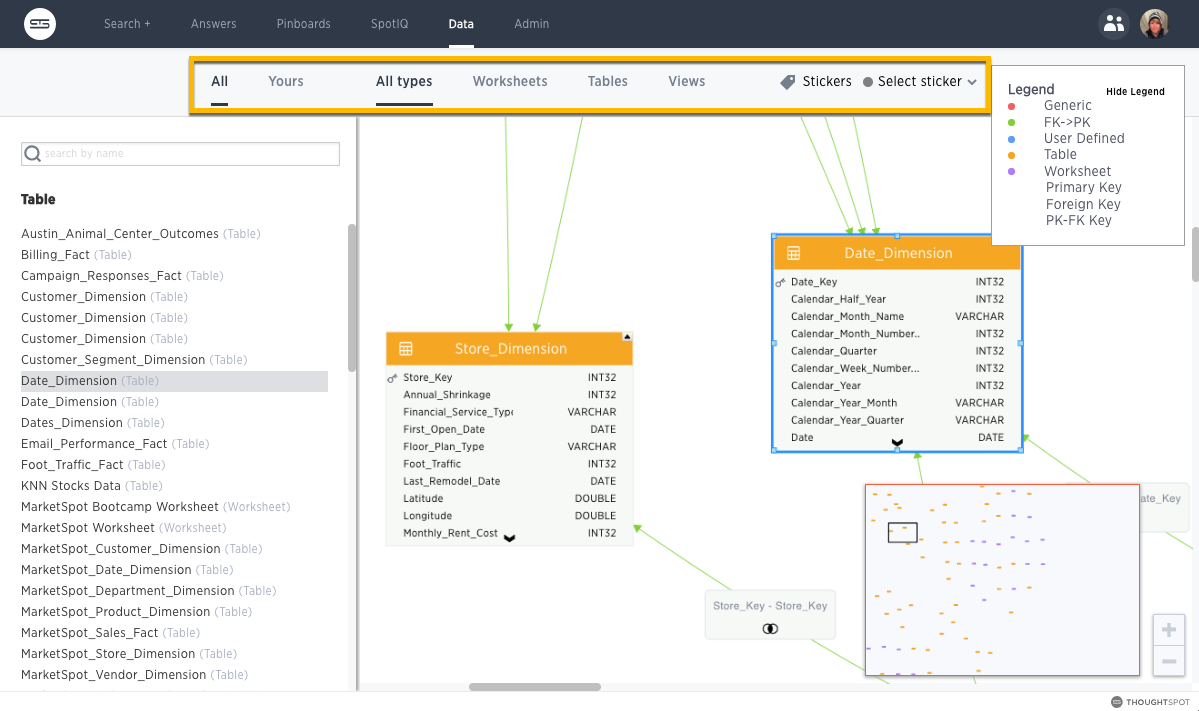
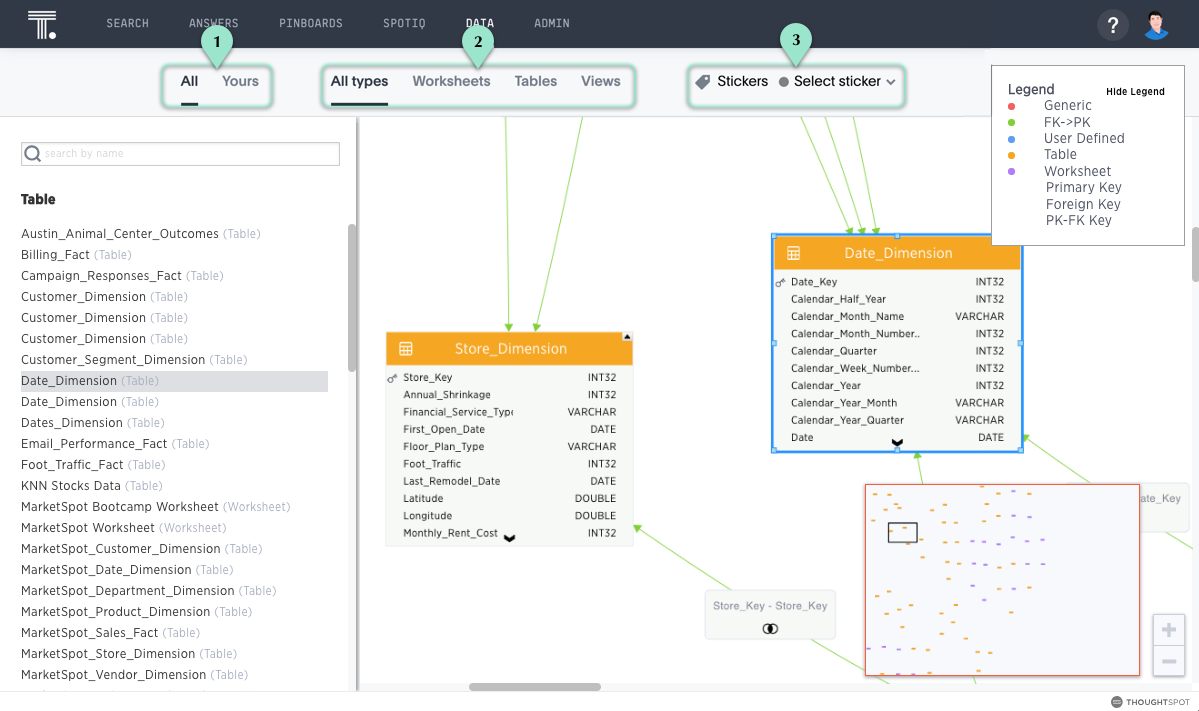
shema visibility in worksheets

diff --git a/_admin/loading/schema-viewer.md b/_admin/loading/schema-viewer.md
@@ -1,47 +1,92 @@
 ---
 title: [How to view a data schema]
 keywords: schema viewer, relationships, keys, worksheet
-last_updated: 12/13/2018
+last_updated: 07/27/2019
 tags: [Modeling]
 toc: true
 summary: "Use the schema viewer to see tables and worksheets and their relationships. "
 sidebar: mydoc_sidebar
 permalink: /:collection/:path.html
 ---
-ThoughtSpot offers a schema viewer that lets you see your database schema in the
-web browser. The Schema Viewer is interactive, so you can configure it to show
-just what you want to see.
+ThoughtSpot has a ##Schema Viewer** though which you can examine the database schema. It is interactive and configurable, so you can see the level of detail that is relevant to your work.
 
-You need **Admin** privileges to use the **Schema Viewer**.
+You must have **Admin** privileges to use the **Schema Viewer**.
 
-## Bringing up the Schema Viewer
+## Accessing the Schema Viewer for all objects
 
-You can bring up the Schema Viewer from the **Data** screen. Click the ellipses icon
+1. Click the **Data** tab in the top menu.  
+
+   ![]({{ site.baseurl }}/images/click-data.png "Click Data")
+
+2. Click the ellipses icon,
  ![more options menu icon]({{ site.baseurl }}/images/icon-ellipses.png){: .inline},
 and select **View Schema**.
 
  ![]({{ site.baseurl }}/images/access_schema_viewer.png "Access the Schema
  Viewer")
 
-When viewing the schema, you can filter the tables shown similarly to how you
-filter data sources. The list of tables, worksheets, and imported data on the
-left includes only those objects you want to see. Clicking on one of the objects
-brings it to the middle of the viewer and highlights it. You can drag the
-objects around in the viewer.
+3. When the schema appears, you can see that you can control the visible part of the schema.
 
  ![]({{ site.baseurl }}/images/schema_viewer.png "Schema Viewer filters")
 
-## Why to use the Schema Viewer
 
-You can use the Schema Viewer to find out information like:
+   | Legend | Action |
+   | --- | --- |
+   | 1. | See either _All_ \(Default\), or _Yours_. |
+   | 2. | See either _All types_ \(Default\), _Worksheets_, _Tables_, or _Views_. |
+   | 3. | Select artifacts tagged with stickers. |
 
--   What is the relationship between two tables? What tables make up this
--   worksheet, and how are they joined?
 
-The schema viewer shows joins between tables, join directionality, and join type
+4. The list of tables, worksheets, and imported data on the left changes as you select the various filters. The schema view focus changes in tandem.
+
+5. To center the view panel on a specific table, worksheet, or view, click that object.
+
+   You can also drag the objects around in the viewer to position them better.
+
+## Accessing Schema Viewer for a single worksheet, table, or view
+
+You can now see the schema for each object for tables, worksheets, or views.
+
+1. Click the **Data** tab in the top menu.  
+
+   ![]({{ site.baseurl }}/images/click-data.png "Click Data")
+
+2. Select from the list of the possible objects:
+
+   ![]({{ site.baseurl }}/images/select-tables.png "Top selection menu in Data")
+
+
+   | Legend | Action |
+   | --- | --- |
+   | 1. | See either _All_ \(Default\), or _Yours_. |
+   | 2. | See either _All types_ \(Default\), _Worksheets_, _Tables_, or _Views_. |
+   | 3. | Select artifacts tagged with stickers. |
+
+3. From the list of objects, select one. Here, we selected the worksheet _West Regional Sales_.
+
+4. At the top of the worksheet, click the **Schema** tab.
+
+   ![]({{ site.baseurl }}/images/select-worksheet-schema.png "Click worksheet Schema")
+
+5. The join information and the schema for the worksheet appear.  
+
+   ![]({{ site.baseurl }}/images/worksheet-join-schema.png "View join and schema")
+
+
+
+## Why use the Schema Viewer
+
+You can use the Schema Viewer to discover the following information:
+
+-   What is the relationship between two tables?
+-   What tables make up this worksheet, and how are they joined?
+
+The schema viewer shows joins between tables, join directionality, and join type.
+
+<!-- ()
 (whether they are Foreign Key to Primary Key, relationship joins, or joins
 defined by users through the web interface). Use the **Table** list to find a
-specific table or worksheet.
+specific table or worksheet.-->
 
 ## How the Schema Viewer shows joins
 
@@ -70,18 +115,15 @@ The worksheet view shows the following information:
 
 -   All tables in the worksheet, and the relationships between these tables.
 -   Source columns for all columns of a worksheet.
-
 -   Keys and definitions for each relationship, as well as join paths and types.
-
 -   Columns that are derived from formulas.
-
--   Correct join paths for newly created chasm trap worksheets. Existing chasm
--   trap worksheets created prior to ThoughtSpot version 4.4 will not show the correct join paths.
+-   Correct join paths for newly created chasm trap worksheets. Chasm trap worksheets created prior to ThoughtSpot version 4.4 do not show the correct join paths.
 
  ![]({{ site.baseurl }}/images/worksheet_viewer.png "Worksheet view example")
 
 ## Related Information
 
 -   [Worksheet joins]({{ site.baseurl }}/admin/worksheets/add-joins.html)
+-   [Modify joins within a worksheet]({{ site.baseurl }}/admin/worksheets/mod-ws-internal-joins.html)
 -   [Change the schema using TQL]({{ site.baseurl }}/admin/loading/change-schema.html)
 -   [Constraints]({{ site.baseurl }}/admin/loading/constraints.html)

diff --git a/_admin/worksheets/mod-ws-internal-joins.md b/_admin/worksheets/mod-ws-internal-joins.md
@@ -3,38 +3,71 @@ title: [Modify joins within a worksheet]
 keywords: worksheet view join relationship
 last_updated: 11/2/2018
 summary: "Learn how to change the join type between the tables within a worksheet"
-toc: false
+toc: true
 sidebar: mydoc_sidebar
 permalink: /:collection/:path.html
 ---
 
 When you create a worksheet, you select a [join rule]({{ site.baseurl }}/admin/worksheets/progressive-joins.html). The join rule works together with the joins defined within the worksheet determine how the tables that make up the worksheet are joined, and how those joins behave when searching on the worksheet.
 
-Beginning in ThoughtSpot version 5.0, you aren't limited to just one join rule for the entire worksheet. You can define different types of joins for each join between tables in a worksheet. Be default, each of these individual table joins uses an inner join. But you can override this at the individual join level.
+Starting with ThoughtSpot version 5.0, you are not limited to just one join rule for the entire worksheet. You can define different types of joins for each join between tables in a worksheet. Be default, each of these individual table joins uses an inner join. But you can override this at the individual join level.
 
 You must have either the **Can administer ThoughtSpot** privilege or the **Can manage data** privilege to modify joins within worksheets.
 
-To modify the join types within a worksheet:
+## Modify a join
 
-1. To find your worksheet, click **Data** in the top menu, and choose **Worksheets**.
+To modify the join types within a worksheet, follow these steps:
 
-2. Click the name of your worksheet.
+1. Click the **Data** tab in the top menu.  
 
-3. Click **Schema**. You will see the list showing existing joins within the worksheet. The joins shown here include all the joins between the underlying tables, whether [created using TQL]({{ site.baseurl }}/admin/loading/constraints.html) or [in the browser]({{ site.baseurl }}/admin/data-modeling/create-new-relationship.html).
+   ![]({{ site.baseurl }}/images/click-data.png "Click Data")
 
-   If you don't see the joins within the worksheet, make sure **Joins within worksheets** is chosen.
+2. Select **Table**, and then select **Worksheets**.
 
-   ![]({{ site.baseurl }}/images/worksheet-join-chooser.png "Joins within a worksheet")
+3. Click the name of the worksheet. Here, we selected the worksheet _West Regional Sales_.
 
-4. Find the join you want to modify and click the **Edit** icon. Note that the fact table is always the left table, and it is shown on the left side.
+4. At the top of the worksheet, click the **Schema** tab.
 
-   ![]({{ site.baseurl }}/images/ws-join-edit-icon.png "Edit worksheet join")
+   ![]({{ site.baseurl }}/images/select-worksheet-schema.png "Click worksheet Schema")
 
-5. Select the join type to use for this relationship in the worksheet and click **Save**.
+5. The join information and the schema for the worksheet appear.
+   -  The schema representation includes the join type.  
+   -  You can see the list of _Joins within the worksheet_, which include all joins between the underlying tables, both [created using TQL]({{ site.baseurl }}/admin/loading/constraints.html) and [created in the browser]({{ site.baseurl }}/admin/data-modeling/create-new-relationship.html).
+   -  The fact table is always on the left side of the join, and it appears on the left side.
 
-   ![]({{ site.baseurl }}/images/worksheet-internal-join-type.png "Select join type")
+   ![]({{ site.baseurl }}/images/worksheet-join-schema-view.png "View join and schema")
 
-Now these two tables will be joined using the type you selected, in the context of this worksheet.
+   Note the available actions for the join view.  
+
+   <table>
+     <tr>
+       <th>Legend</th>
+       <th>Action</th>
+     </tr>
+     <tr>
+       <td>1.</td>
+       <td>See either <em>Join within this Worksheet (Default)</em>, or <em>Joins from this Worksheet</em>.</td>
+     </tr>
+     <tr>
+       <td>2.</td>
+       <td>Click the pencil icon to edit the join.</td>
+     </tr>
+     <tr>
+       <td>3.</td>
+       <td>Click the up arrow icon to collapse the join detail.</td>
+     </tr>
+   </table>
+
+7. Select the join you plan to modify, and click the **Edit** \(pencil\) icon next to it.
+
+8. In the **Edit Join** window modal, make the necessary changes:  
+
+   ![]({{ site.baseurl }}/images/change-join.png "Select join type and cardinality")
+
+    -  Under **Join Type**, select one of _Inner Join_, _Left Outer Join_, _Right Outer Join_, or _Full Outer Join_.
+    - Under **Join Cardinality**, select either _Many to One_, or _One to One_.
+
+   Click **Save**.
 
 ## Related Information
 

diff --git a/_release/notes.md b/_release/notes.md
@@ -48,6 +48,8 @@ When you create a new user, we recommend that you add them to a user group immed
 
 To configure the email protocols necessary for onboarding, the administrator must also specify the onboarding configuration for the cluster. See the reference information for the [tscli onboarding command]({{ site.baseurl }}/reference/tscli-command-ref.html#tscli-onboarding).
 
+Finally, see the general overview of [How onboarding works for the user]({{ site.baseurl }}/end-user/onboarding/user-onboarding-experience.html).
+
 ### Management Console
 The Management Console is now available in beta.  
 
@@ -81,12 +83,15 @@ SpotIQ Analysis now supports more complex measurements:
 * _Sum over sum_ and _Average_ use 'what-if' percentage insights.  
 * _Unique count_  uses a 'versus' analysis to highlight absolute change grouped by different drill attributes  
 
-See [SpotIQ Comparative Analysis]({{ site.baseurl }}//spotiq/spotiq-comparative-analysis.html).
+See [SpotIQ Comparative Analysis]({{ site.baseurl }}/spotiq/spotiq-comparative-analysis.html).
 
 ### SpotIQ simplified feedback
 
-We simplified feedback for insights and analysis to use fewer questions. These questions are now more relevant to the specific insight. See [Insight Feedback]({{ site.baseurl }}//spotiq/insight=feedback.html).
+We simplified feedback for insights and analysis to use fewer questions. These questions are now more relevant to the specific insight. See [Insight Feedback]({{ site.baseurl }}/spotiq/insight-feedback.html).
 
+### Schema and Join Information
+
+You can now see the schema information and join information at the same time, under the **Schema** tab of each table, worksheet, and view. For an example, see [Modify joins within a worksheet]({{ site.baseurl }}/admin/worksheets/mod-ws-internal-joins.html).
 
 ### Drivers
 

diff --git a/_spotiq/spotiq-comparative-analysis.md b/_spotiq/spotiq-comparative-analysis.md
@@ -4,6 +4,7 @@ tags: [spotiq]
 keywords: SpotIQ, comparative analysis, complex measures
 summary: "With SpotIQ competitive analysis, you can compare two data points for complex measures."
 last_updated: 07/26/2019
+toc: true
 sidebar: mydoc_sidebar
 permalink: /:collection/:path.html
 ---
@@ -53,7 +54,8 @@ To view the results of your analysis, follow these steps:
     Click _View Results_ to open the report.
     ![]({{ site.baseurl }}/images/comparative-analysis-5.png "Opening the Analysis Results")
 
-3. In the report, SpotIQ prepared a visualization for comparing each of the columns identified in the analysis request. In this example, these columns are _Department_, _Age Group_, and _Store Region_.
+3. In the report, SpotIQ prepared a visualization for comparing each of the columns identified in the analysis request. In this example, these columns are _Department_, _Age Group_, and _Store Region_.  
+
     ![]({{ site.baseurl }}/images/comparative-analysis-6.png "Analysis Results")
 
 4. You can now examine each visualization in the analysis for details of comparison, give feedback on its usefulness, and so on.  
